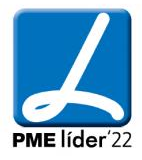
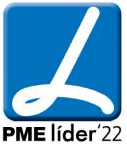
G: selos nos carimbos do hero, sem contorno; apagada a faixa de selos
- Carimbos do hero = tiles brancos com o selo (Classe 5 em texto) + legenda
- Acrescentados TOP 10 setor e R.U.-I.S.; grelha de colunas iguais (3 + 2 no telemóvel)
- Faixa de selos da secção 04 e o seu CSS removidos
- Margens brancas dos 3 PNG dos selos recortadas
- STATUS, LOG e decisões atualizados

Claude-Session: https://claude.ai/code/session_017od2hNMK3kfdP6QYHdyga6

diff --git a/prototypes/g/styles.css b/prototypes/g/styles.css
@@ -184,11 +184,14 @@ html.is-loading .loader { position: fixed; inset: 0; z-index: 1000; display: gri
 .founders__title { margin: 0; font-family: var(--f-ui); font-size: clamp(2rem, 3.4vw, 3rem); line-height: 1.04; font-weight: 600; letter-spacing: -0.025em; }
 .founders__text .actions { margin-top: 4px; }
 
-/* Carimbos: um por facto, por baixo do subtítulo do hero (contorno branco sobre o véu) */
-.stamps { margin: 4px 0 0; display: flex; flex-wrap: wrap; gap: 8px; }
-.stamps > div { padding: 8px 12px 10px; border: 1px solid var(--white); border-radius: 2px; display: flex; flex-direction: column-reverse; justify-content: flex-end; gap: 4px; }
+/* Carimbos: um por facto, por baixo do título do hero — selo em tile branco (sem contorno) + legenda branca */
+.stamps { margin: 4px 0 0; display: grid; grid-template-columns: repeat(5, minmax(0, 152px)); gap: 16px 12px; }
+.stamps > div { display: flex; flex-direction: column-reverse; justify-content: flex-end; gap: 8px; }
 .stamps dt { font-family: var(--f-mono); font-size: 12px; line-height: 1.4; color: var(--white); }
-.stamps dd { margin: 0; font-family: var(--f-ui); font-size: 1.125rem; line-height: 1.1; font-weight: 600; letter-spacing: -0.01em; white-space: nowrap; }
+.stamps dd { margin: 0; }
+.stamp__tile { display: flex; align-items: center; justify-content: center; height: 88px; padding: 8px; box-sizing: border-box; background: var(--white); border-radius: 2px; }
+.stamp__tile img { display: block; height: 100%; width: auto; max-width: 100%; object-fit: contain; }
+.stamp__tile--text { font-family: var(--f-ui); font-size: 1.25rem; line-height: 1; font-weight: 600; letter-spacing: -0.01em; color: var(--ink); white-space: nowrap; }
 
 /* ---------- Cabeçalho de secção ---------- */
 .sec-head { row-gap: 16px; border-top: 2px solid var(--ink); padding-top: 20px; }
@@ -306,21 +309,6 @@ html.is-loading .loader { position: fixed; inset: 0; z-index: 1000; display: gri
 .cred strong { font-family: var(--f-ui); font-weight: 600; }
 .cred__sub { font-size: 0.9375rem; color: var(--g700); }
 .cred__ref { font-family: var(--f-mono); font-size: 14px; }
-/* Selos das distinções (secção 04) */
-.seals { list-style: none; margin: 40px 0 0; padding: 0; display: grid; grid-template-columns: repeat(4, minmax(0, 1fr)); gap: 16px; }
-.seal { display: flex; flex-direction: column; align-items: center; justify-content: space-between; gap: 16px; min-height: 196px; padding: 24px 16px 16px; background: var(--white); border-top: 1px solid var(--ink); }
-.seal__img { display: block; height: 104px; width: auto; max-width: 100%; object-fit: contain; margin: auto 0; }
-.seal__img--wide { height: 112px; }
-.seal__img--round { height: 120px; }
-.seal__cap { font-family: var(--f-mono); font-size: 12px; line-height: 1.4; color: var(--g700); text-align: center; }
-@media (max-width: 760px) {
-  .seals { grid-template-columns: repeat(2, minmax(0, 1fr)); gap: 12px; }
-  .seal { min-height: 164px; }
-  .seal__img { height: 84px; }
-  .seal__img--wide { height: 88px; }
-  .seal__img--round { height: 96px; }
-}
-
 
 /* ---------- 05 Como trabalhamos ---------- */
 .steps { list-style: none; margin: 0; padding: 0; display: grid; grid-template-columns: repeat(4, minmax(0, 1fr)); gap: 32px 24px; border-top: 1px solid var(--ink); }
@@ -407,6 +395,9 @@ textarea.input { padding: 12px; line-height: 1.5; resize: vertical; }
 
   .hero { min-height: clamp(520px, calc(100svh - 160px), 720px); }
   .hero-inner { padding-top: 64px; padding-bottom: 32px; }
+  .stamps { grid-template-columns: repeat(3, minmax(0, 1fr)); gap: 14px 8px; }
+  .stamp__tile { height: 68px; padding: 6px; }
+  .stamp__tile--text { font-size: 1.0625rem; }
   .path__body { padding: 24px; }
   .path__name { font-size: 2.25rem; }
   .paths-sec { padding-top: 32px; }

diff --git a/prototypes/g/index.html b/prototypes/g/index.html
@@ -105,11 +105,13 @@ try { if (!sessionStorage.getItem('g-loader')) document.documentElement.classLis
       <div class="hero-intro">
         <p class="hero-eyebrow">ENGICIVIL · Aveiro, desde 2013</p>
         <h1 id="h-hero" class="hero-title">Construímos, reabilitamos e promovemos edifícios, com as mais modernas soluções construtivas.</h1>
-        <!-- Carimbos: prova comum aos dois negócios -->
+        <!-- Carimbos: prova comum aos dois negócios. Selos em tile branco (os ficheiros têm fundo branco; provisórios, ver STATUS) -->
         <dl class="stamps" aria-label="Comum aos dois negócios: ENGICIVIL – Cardoso &amp; Manata, Lda.">
-          <div><dt>Alvará IMPIC 70366-PUB</dt><dd>Classe 5</dd></div>
-          <div><dt>IAPMEI, 2020 a 2022</dt><dd>PME Líder</dd></div>
-          <div><dt>Melhores PME de Portugal, 2022</dt><dd>TOP 5%</dd></div>
+          <div><dt>Alvará IMPIC 70366-PUB</dt><dd class="stamp__tile stamp__tile--text">Classe 5</dd></div>
+          <div><dt>IAPMEI, 2020 a 2022</dt><dd class="stamp__tile"><img src="/img/selos/pme-lider-2022.png" width="127" height="144" alt="PME Líder"></dd></div>
+          <div><dt>Melhores PME de Portugal, 2022</dt><dd class="stamp__tile"><img src="/img/selos/scoring-top5-2022.png" width="107" height="107" alt="Scoring TOP 5%"></dd></div>
+          <div><dt>Melhores PME do setor, 2022</dt><dd class="stamp__tile"><img src="/img/selos/scoring-top10-setor-2022.png" width="293" height="252" alt="Scoring TOP 10, construção, reabilitação e remodelações"></dd></div>
+          <div><dt>AICCOPN, 2022</dt><dd class="stamp__tile"><img src="/img/selos/ruis-aiccopn.svg" width="58" height="62" alt="Marca R.U.-I.S. Reabilitação Urbana Inteligente e Sustentável"></dd></div>
         </dl>
       </div>
     </div>
@@ -655,25 +657,6 @@ try { if (!sessionStorage.getItem('g-loader')) document.documentElement.classLis
           </div>
         </div>
       </div>
-      <!-- Selos das distinções (ficheiros provisórios: ver sessions/g/STATUS.md) -->
-      <ul class="seals" aria-label="Selos das distinções">
-        <li class="seal">
-          <img class="seal__img" src="/img/selos/pme-lider-2022.png" width="142" height="160" alt="PME Líder 2022" loading="lazy">
-          <span class="seal__cap">IAPMEI · PME Líder 2022</span>
-        </li>
-        <li class="seal">
-          <img class="seal__img seal__img--round" src="/img/selos/scoring-top5-2022.png" width="128" height="134" alt="Scoring TOP 5% Melhores PME de Portugal 2022" loading="lazy">
-          <span class="seal__cap">Scoring · TOP 5% 2022</span>
-        </li>
-        <li class="seal">
-          <img class="seal__img seal__img--wide" src="/img/selos/scoring-top10-setor-2022.png" width="327" height="255" alt="Scoring TOP 10 Melhores PME do Setor 2022, construção, reabilitação e remodelações, segundo ano consecutivo" loading="lazy">
-          <span class="seal__cap">Scoring · TOP 10 setor 2022</span>
-        </li>
-        <li class="seal">
-          <img class="seal__img" src="/img/selos/ruis-aiccopn.svg" width="58" height="62" alt="R.U.-I.S. Reabilitação Urbana Inteligente e Sustentável" loading="lazy">
-          <span class="seal__cap">AICCOPN · Marca R.U.-I.S.</span>
-        </li>
-      </ul>
     </div>
   </section>
 

diff --git a/sessions/g/STATUS.md b/sessions/g/STATUS.md
@@ -1,7 +1,7 @@
 # Estado — Protótipo G — Rigor local (B+D)
 
 > **Este ficheiro é o estado ATUAL** — reescreve-o no fim de cada sessão (não acumules histórico aqui; isso vai para `LOG.md`).
-> Atualizado: **2026-10-22** · por: sessão 4 (Claude, conversa do vault) · branch `g/certificacoes`
+> Atualizado: **2026-10-22** · por: sessão 5 (Claude) · branch `claude/nice-cannon-u8j2zu`
 
 ## Onde estamos
 - `prototypes/g/index.html` = **homepage**, sem estilos inline. Igual ao mockup `G-BD` a 1440 px, exceto o hero (revisto, ver abaixo).
@@ -9,7 +9,7 @@
 - `prototypes/g/loader.js` + bloco `#loader` no início do `<body>` + secção «Ecrã de carregamento» no `styles.css` = **ecrã de carregamento**: o símbolo da fita do logótipo atual (sem texto), em SVG neutro, desenha-se ao longo da fita; repete enquanto a página carrega; sai com fade. **Só na primeira visita da sessão** (decisão do António): o script do `<head>` só põe `is-loading` se `g-loader` não estiver no `sessionStorage`; recarregar ou navegar no mesmo separador já não o mostra (para o rever: separador novo ou `sessionStorage.removeItem('g-loader')`). Respeita «reduzir movimento»; failsafe aos 8 s. **Páginas novas do G devem copiar o bloco `#loader`, a classe `is-loading` no script do `<head>` e o `<script src="…/loader.js">`.**
 - `prototypes/g/main.js` = menu recolhido do cabeçalho (abre/fecha, `aria-expanded`, Esc devolve o foco, fecha ao escolher destino). Sem JS o menu fica visível.
 - **Topo da homepage (sessão 2, pedidos do António, 22/10)** — por esta ordem:
-  1. **Hero = vídeo a toda a largura** (percurso pela obra da Delabie, `public/video/`, 1280×720), em ciclo e sem som. Por cima, em branco: «ENGICIVIL · Aveiro, desde 2013», o título «Construímos, reabilitamos e promovemos edifícios, com as mais modernas soluções construtivas.» e, por baixo, **os carimbos** (sem subtítulo — retirado a pedido do António): 3 caixas pequenas com contorno branco (Classe 5 · PME Líder · TOP 5%), lado a lado com a largura do conteúdo; no telemóvel passam a 2 + 1. «2013» e «30 especialistas» saíram (pedido do António). O 2013 está no eyebrow; os «30 especialistas» (com engenharia e estaleiro próprios) passaram para o texto da secção dos sócios. O `<dl>` tem `aria-label` «Comum aos dois negócios: ENGICIVIL – Cardoso & Manata, Lda.».
+  1. **Hero = vídeo a toda a largura** (percurso pela obra da Delabie, `public/video/`, 1280×720), em ciclo e sem som. Por cima, em branco: «ENGICIVIL · Aveiro, desde 2013», o título «Construímos, reabilitamos e promovemos edifícios, com as mais modernas soluções construtivas.» e, por baixo, **os carimbos** (sem subtítulo — retirado a pedido do António): **5 tiles brancos, sem contorno, com os selos** (Classe 5 em texto · PME Líder · Scoring TOP 5% · Scoring TOP 10 setor · R.U.-I.S.) e a legenda em branco por baixo; grelha de 5 colunas iguais (≤ 152 px); no telemóvel 3 + 2. Os selos têm fundo branco (sem transparência), daí o tile branco. «2013» e «30 especialistas» saíram (pedido do António). O 2013 está no eyebrow; os «30 especialistas» (com engenharia e estaleiro próprios) passaram para o texto da secção dos sócios. O `<dl>` tem `aria-label` «Comum aos dois negócios: ENGICIVIL – Cardoso & Manata, Lda.».
      - Véu escuro liso a 60 % (sem gradiente) → texto branco com ≥ 4,8:1 mesmo sobre o píxel mais claro do vídeo (medido em 17 fotogramas).
      - **Sem botão de pausa** (retirado a pedido do António). ⚠ Falha o critério WCAG 2.2.2 (nível A: movimento automático > 5 s tem de poder ser pausado). Continua a respeitar «reduzir movimento» e poupança de dados (fica parado na capa). Ver próximos passos.
      - Altura: ecrã inteiro menos o cabeçalho (560–820 px; telemóvel 520–720 px).
@@ -17,8 +17,8 @@
   3. **Secção «Os dois sócios fundadores»**: foto (span 5, sem legenda) + título, texto factual (2013, mais de duas décadas de experiência, 30 especialistas com engenharia e estaleiro próprios, constrói para clientes e para os empreendimentos) e botão «Ligar 234 060 223».
   - **Régua do cabeçalho removida** (pedido do António).
   - A barra do carimbo (`.proof`/`.facts`) deixou de existir; foi substituída por `.stamps` no hero.
-- **Selos das distinções (sessão 4, pedido do António, 22/10):** faixa de 4 selos no fim da secção 04 «Uma empresa, as mesmas credenciais» (`ul.seals`, CSS «Selos das distinções» no `styles.css`; 4 colunas → 2 no telemóvel). Ficheiros em `public/img/selos/`:
-  - `pme-lider-2022.png` — recortado do diploma PME Líder 2022 que a Engicivil publica no site (142×160, baixa resolução). ⚠ **Provisório:** o IAPMEI só envia o logótipo oficial (com o ano obrigatório) por email à empresa → **pedir à Engicivil** o ficheiro do último ano que tenham.
+- **Selos das distinções:** a faixa de selos da secção 04 (sessão 4) foi **apagada** na sessão 5 (pedido do António); os selos passaram para os carimbos do hero. A tabela de credenciais da secção 04 mantém-se. Ficheiros em `public/img/selos/` (margens brancas recortadas na sessão 5):
+  - `pme-lider-2022.png` — recortado do diploma PME Líder 2022 que a Engicivil publica no site (127×144 depois do recorte, baixa resolução). ⚠ **Provisório:** o IAPMEI só envia o logótipo oficial (com o ano obrigatório) por email à empresa → **pedir à Engicivil** o ficheiro do último ano que tenham.
   - `scoring-top5-2022.png` e `scoring-top10-setor-2022.png` — recortados das imagens da própria Engicivil (selos personalizados Scoring 2022, com NIF e nome). ⚠ Provisórios, baixa resolução → pedir os originais.
   - `ruis-aiccopn.svg` — logótipo oficial R.U.-I.S., vetorial, do site da AICCOPN (ruis.aiccopn.pt). Definitivo.
   - **Correções de factos feitas ao mesmo tempo:** PME Líder = **2020, 2021, 2022** (não 2021–2023: o diploma «PME Líder 2022» e a notícia de 01/2023 «3.º ano consecutivo»; corrigido na tabela e no carimbo do hero). «Prémio de Excelência» passou a **TOP 10 Melhores PME do Setor** (construção, reabilitação e remodelações; 2.º ano consecutivo; Edição 2022) — é o que diz o selo.

diff --git a/context/decisoes.md b/context/decisoes.md
@@ -4,7 +4,7 @@ Decisões que valem para os dois protótipos. Entrada nova no topo, com data, qu
 
 | Data | Decisão | Quem | Porquê / notas |
 |---|---|---|---|
-| 2026-10-22 | **Selos das distinções:** só com o ano efetivamente atribuído (o IAPMEI exige o ano no logótipo PME Líder; os selos Scoring são datados e personalizados). Até haver os ficheiros oficiais, usam-se recortes das imagens publicadas pela Engicivil; R.U.-I.S. com o SVG oficial da AICCOPN. | António (pedido) + Viriato | Ficheiros oficiais PME Líder/Scoring → pedir à Engicivil. |
+| 2026-10-22 | **Selos das distinções:** só com o ano efetivamente atribuído (o IAPMEI exige o ano no logótipo PME Líder; os selos Scoring são datados e personalizados). Até haver os ficheiros oficiais, usam-se recortes das imagens publicadas pela Engicivil; R.U.-I.S. com o SVG oficial da AICCOPN. No G os selos estão nos carimbos do hero (a faixa da secção 04 foi apagada a pedido do António). | António (pedido) + Viriato | Ficheiros oficiais PME Líder/Scoring → pedir à Engicivil. |
 | 2026-10-22 | **Correção de factos:** PME Líder = 2020, 2021, 2022 (não 2021–2023). O «Prémio de Excelência» Scoring é o selo **TOP 10 Melhores PME do Setor** (construção, reabilitação e remodelações), Edição 2022, 2.º ano consecutivo. NIPC da Cardoso & Manata visível no selo: **510 832 091**. | Viriato | Fontes: diploma PME Líder 2022 e selos publicados no site da Engicivil. |
 | 2026-10-21 | Repositório **público**, com o contexto do projeto. | António | Escolha explícita. ⚠ Feedback do cliente e notas da ficha ficam visíveis a qualquer pessoa. |
 | 2026-10-21 | **Stack:** HTML/CSS estático + Vite multi-página; deploy no Vercel com preview por branch. | António (recomendação da Viriato) | Mais próximo dos mockups e fácil de manter. |

diff --git a/sessions/g/LOG.md b/sessions/g/LOG.md
@@ -2,6 +2,12 @@
 
 Entrada nova **no topo**. Formato: data · branch · o que mudou · decisões · link do preview.
 
+## 2026-10-22 · claude/nice-cannon-u8j2zu · sessão 5: selos nos carimbos do hero
+- Pedido do António: **apagada a faixa de selos** da secção 04 (`ul.seals` + CSS); os selos passam para os **carimbos do hero**, **sem contorno**.
+- Carimbos = 5 tiles brancos com o selo (Classe 5 fica em texto, não há selo) + legenda mono branca por baixo: Alvará IMPIC 70366-PUB · IAPMEI, 2020 a 2022 · Melhores PME de Portugal, 2022 · Melhores PME do setor, 2022 · AICCOPN, 2022. Os selos não têm transparência → tile branco em vez de pô-los diretamente sobre o vídeo.
+- Grelha de colunas iguais (5 × ≤ 152 px; telemóvel 3 + 2). Margens brancas dos 3 PNG recortadas para os selos ficarem maiores no tile.
+- Sem scroll horizontal a 390, 768 e 1440 px. Capturas: `screenshots/g/2026-10-22-g-desktop.png` / `-mobile.png`.
+
 ## 2026-10-22 · g/certificacoes · selos das distinções
 - Faixa de 4 selos (PME Líder 2022, Scoring TOP 5% 2022, Scoring TOP 10 setor 2022, R.U.-I.S.) no fim da secção 04. R.U.-I.S. é o SVG oficial; os outros 3 são recortes provisórios das imagens publicadas pela Engicivil.
 - Factos corrigidos: PME Líder 2020–2022 (tabela + carimbo do hero); «Prémio de Excelência» → «TOP 10 Melhores PME do Setor».
